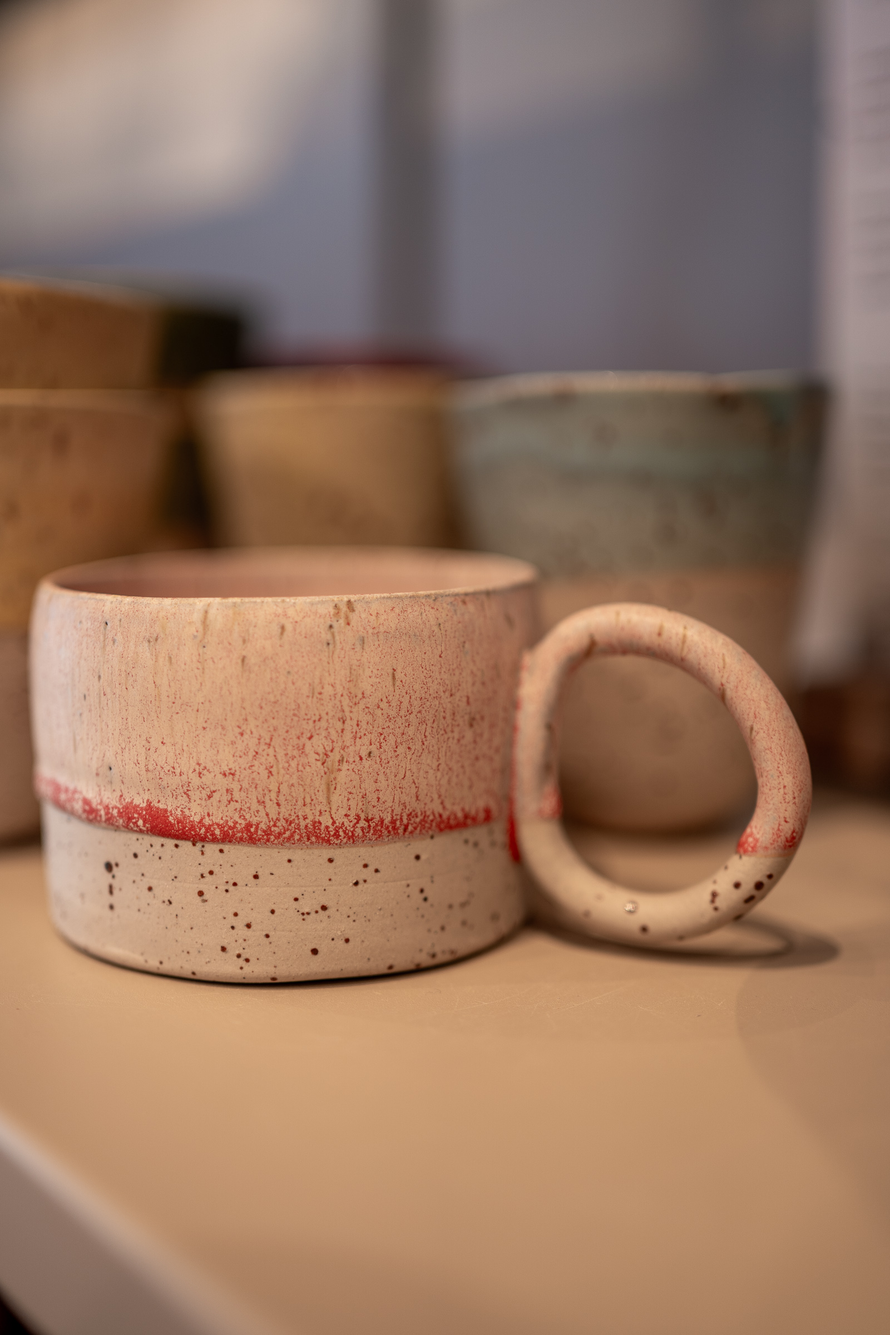
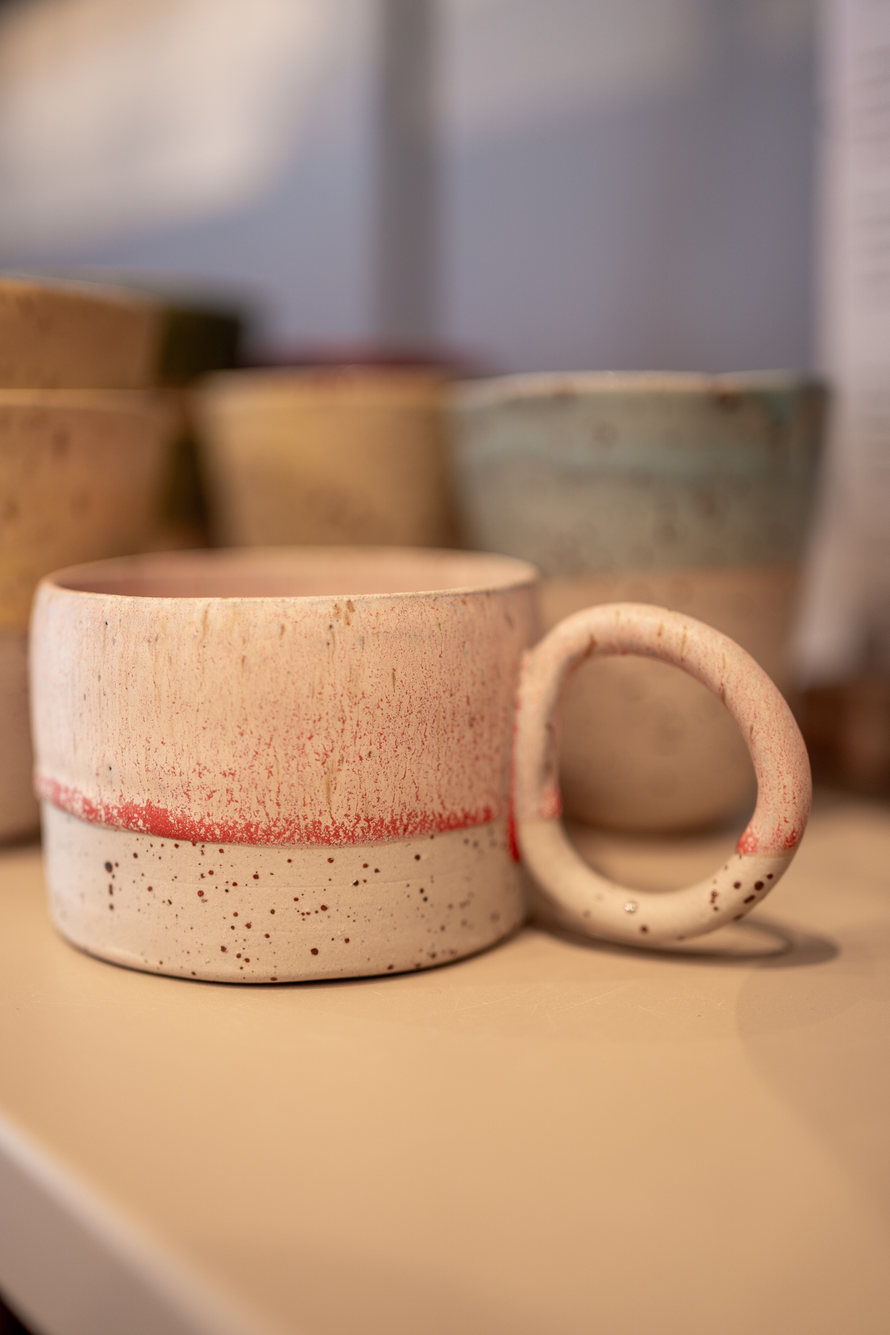
Polish portfolio case studies and metadata

diff --git a/app/designer/coddiwomple-art/page.tsx b/app/designer/coddiwomple-art/page.tsx
@@ -41,17 +41,11 @@ export default function CoddiwompleArtPage() {
 
           {/* Smaller scattered dots */}
           <div className="absolute left-[7%] top-[34%] h-5 w-5 rounded-full bg-[#A2337E] sm:h-7 sm:w-7" />
-
           <div className="absolute left-[13%] top-[53%] h-9 w-9 rounded-full bg-[#021214] sm:h-12 sm:w-12" />
-
           <div className="absolute left-[31%] bottom-[22%] h-7 w-7 rounded-full bg-[#13ABBF] sm:h-10 sm:w-10" />
-
           <div className="absolute left-[46%] bottom-[17%] h-4 w-4 rounded-full bg-[#13ABBF] sm:h-6 sm:w-6" />
-
           <div className="absolute right-[17%] top-[15%] h-3 w-3 rounded-full bg-[#021214] sm:h-4 sm:w-4" />
-
           <div className="absolute right-[12%] top-[46%] h-5 w-5 rounded-full bg-[#A2337E] sm:h-7 sm:w-7" />
-
           <div className="absolute right-[25%] bottom-[25%] h-5 w-5 rounded-full bg-[#A2337E] sm:h-7 sm:w-7" />
 
           {/* Dotted journey path */}
@@ -74,15 +68,31 @@ export default function CoddiwompleArtPage() {
             />
           </svg>
 
-          {/* Main message */}
-          <div className="relative z-10 mx-auto flex min-h-[430px] max-w-4xl items-center justify-center px-8 pb-28 pt-20 text-center sm:min-h-[480px] sm:px-12 sm:pb-32 lg:min-h-[520px] lg:px-16">
-            <h2
-              className={`${jost.className} max-w-3xl text-3xl font-bold leading-[1.18] text-[#021214] sm:text-4xl lg:text-5xl`}
-            >
-              To travel purposefully toward an unknown destination.
-            </h2>
-          </div>
+          {/* Definition */}
+<div className="relative z-10 mx-auto flex min-h-[430px] max-w-5xl items-center px-8 pb-28 pt-16 sm:min-h-[480px] sm:px-12 lg:min-h-[520px] lg:px-16">
+  <div className="w-full">
+    <div className="mb-6 ml-10 text-left sm:mb-8 sm:ml-16 lg:ml-24">
+      <p
+        className={`${jost.className} text-sm font-bold uppercase tracking-[0.14em] text-[#021214] sm:text-base`}
+      >
+        Coddiwomple
+      </p>
 
+      <p
+        className={`${jost.className} mt-2 text-lg text-[#021214] sm:text-xl`}
+        style={{ fontStyle: "italic" }}
+      >
+        verb
+      </p>
+    </div>
+
+    <h2
+      className={`${jost.className} max-w-4xl text-left text-3xl font-bold leading-[1.08] text-[#021214] sm:text-4xl lg:text-5xl`}
+    >
+      To travel purposefully toward an unknown destination.
+    </h2>
+  </div>
+</div>
           {/* Scooter */}
           <Image
             src="/images/coddiwomple/scooter.png"

diff --git a/app/photographer/choisi-copenhagen/page.tsx b/app/photographer/choisi-copenhagen/page.tsx
@@ -87,7 +87,7 @@ export default function ChoisiCopenhagenPage() {
           {/* Pair 1 */}
           <div className="grid grid-cols-1 gap-8 md:grid-cols-2">
             <Image
-              src="/images/choisi/2026-09-23_Copenhagen-64.jpg"
+              src="/images/choisi/2026-09-23_Copenhagen-70.jpg"
               alt="Choisi Copenhagen"
               width={1920}
               height={2400}
@@ -95,7 +95,7 @@ export default function ChoisiCopenhagenPage() {
             />
 
             <Image
-              src="/images/choisi/2026-09-23_Copenhagen-70.jpg"
+              src="/images/choisi/2026-09-23_Copenhagen-64.jpg"
               alt="Choisi Copenhagen"
               width={1920}
               height={2400}
@@ -106,7 +106,7 @@ export default function ChoisiCopenhagenPage() {
           {/* Pair 2 */}
           <div className="grid grid-cols-1 gap-8 md:grid-cols-2">
             <Image
-              src="/images/choisi/2026-09-23_Copenhagen-77.jpg"
+              src="/images/choisi/2026-09-23_Copenhagen-80.jpg"
               alt="Choisi Copenhagen"
               width={1920}
               height={2400}
@@ -114,7 +114,7 @@ export default function ChoisiCopenhagenPage() {
             />
 
             <Image
-              src="/images/choisi/2026-09-23_Copenhagen-80.jpg"
+              src="/images/choisi/2026-09-23_Copenhagen-86.jpg"
               alt="Choisi Copenhagen"
               width={1920}
               height={2400}
@@ -125,7 +125,7 @@ export default function ChoisiCopenhagenPage() {
           {/* Solo feature */}
           <div className="mx-auto w-full max-w-2xl">
             <Image
-              src="/images/choisi/2026-09-23_Copenhagen-86.jpg"
+              src="/images/choisi/2026-09-23_Copenhagen-77.jpg"
               alt="Choisi Copenhagen"
               width={1920}
               height={2400}

diff --git a/app/layout.tsx b/app/layout.tsx
@@ -4,8 +4,20 @@ import { urbanist } from "./fonts";
 import "./globals.css";
 
 export const metadata: Metadata = {
-  title: "Sherrisa",
-  description: "Educator, designer, and photographer.",
+  title: "Sherrisa Classon",
+  description: "Educator | Designer | Photographer",
+  openGraph: {
+    title: "Sherrisa Classon",
+    description: "Educator | Designer | Photographer",
+    images: [
+      {
+        url: "/images/wildflowers.jpeg",
+        width: 1200,
+        height: 800,
+        alt: "Watercolor wildflowers",
+      },
+    ],
+  },
 };
 
 export default function RootLayout({
